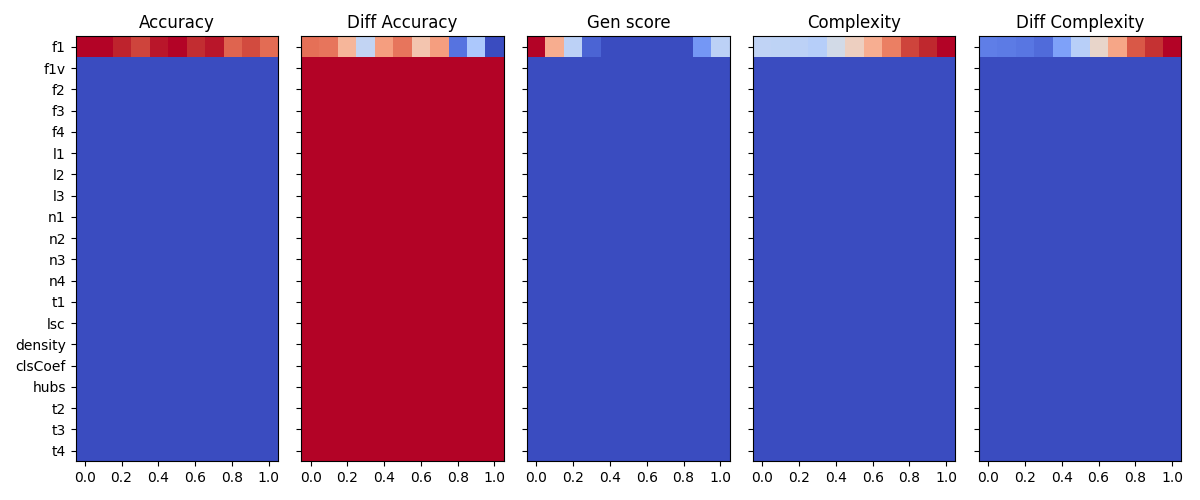
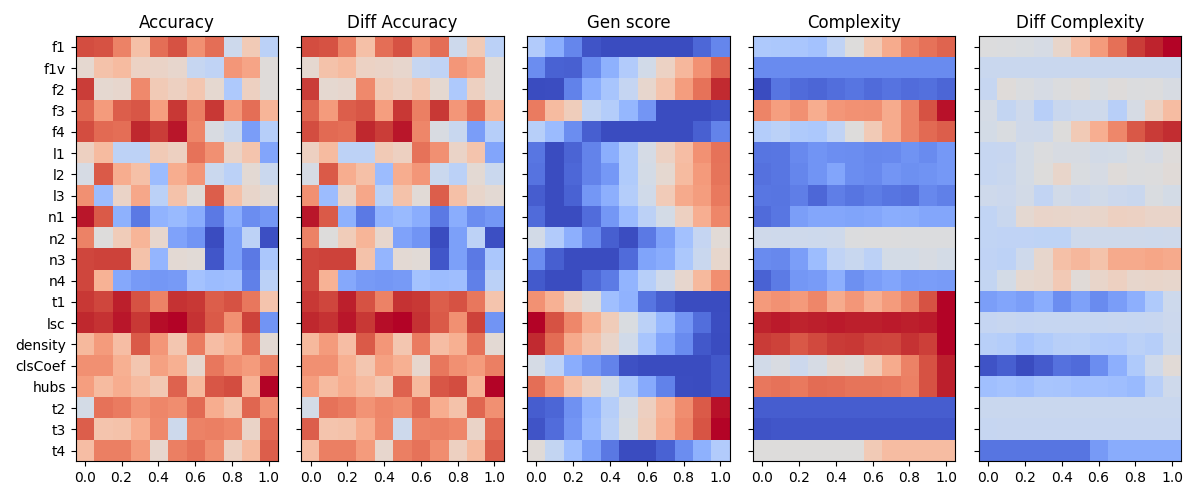
e infividual  for 1 dataset + measure and range selection

diff --git a/e_mir_individual.py b/e_mir_individual.py
@@ -1,0 +1,60 @@
+import os
+
+default_n_threads = 1
+os.environ['OPENBLAS_NUM_THREADS'] = f"{default_n_threads}"
+os.environ['MKL_NUM_THREADS'] = f"{default_n_threads}"
+os.environ['OMP_NUM_THREADS'] = f"{default_n_threads}"
+
+import numpy as np
+from sklearn.datasets import make_classification, load_breast_cancer
+from problexity.classification import f1, f1v, f2, f3, f4, l1, l2, l3, n1, n2, n3, n4, t1, lsc, \
+    density, clsCoef, hubs, t2, t3, t4, c1, c2
+from sklearn.model_selection import cross_val_score
+from Generate import GenComplexity
+from sklearn.naive_bayes import GaussianNB
+
+np.random.seed(188)
+
+reps = 10
+random_states = np.random.randint(100,10000,reps)
+
+complexity_funs = [f1, f1v, f2, f3, f4, l1, l2, l3, n1, n2, n3, n4, t1, lsc, density, clsCoef, hubs, t2, t3, t4]
+target_X, target_y = load_breast_cancer(return_X_y=True)
+
+results = np.zeros((reps, len(complexity_funs), 5)) # clf, 
+                                                    # clf diff from source, 
+                                                    # score, 
+                                                    # complexity,
+                                                    # complexity diff from source
+
+for rep_id, rs in enumerate(random_states):
+    X_source, y_source = make_classification(n_samples=500, random_state=rs)
+
+    for fun_id, fun in enumerate(complexity_funs):
+        print('Measure: %s' % fun.__name__)
+        c_source = fun(X_source, y_source)
+        target = fun(target_X, target_y)
+
+        gen = GenComplexity(X_source, y_source, [target], [fun])
+        gen.generate(iters=300, pop_size=100, 
+                     cross_ratio=0.25, mut_ratio=0.1,
+                     decay=0.005)
+
+        X, y = gen.return_best(0)
+        
+        clf = GaussianNB()
+        s1 = cross_val_score(clf, X_source, y_source, cv=10)
+        s2 = cross_val_score(clf, X, y, cv=10)
+
+        results[rep_id, fun_id, 0] = np.mean(s2)
+        results[rep_id, fun_id, 1] = np.mean(s2) - np.mean(s1)
+        
+        results[rep_id, fun_id, 2] = gen.pop_scores[0,0]
+                    
+        c = fun(X,y)
+        results[rep_id, fun_id, 3] = c
+        results[rep_id, fun_id, 4] = c - c_source
+
+
+    print(results[rep_id, fun_id])
+    np.save('res/e_mir_individual.npy', results)

diff --git a/e_individual_vis2.py b/e_individual_vis2.py
@@ -1,0 +1,58 @@
+import numpy as np
+from problexity.classification import f1, f1v, f2, f3, f4, l1, l2, l3, n1, n2, n3, n4, t1, lsc, \
+    density, clsCoef, hubs, t2, t3, t4, c1, c2
+import matplotlib.pyplot as plt
+
+results = np.load('res/e_individual.npy')
+print(results.shape) # 10 x 20 x 11 x 5
+
+# clf, 
+# clf diff from source, 
+# score, 
+# complexity,
+# complexity diff from source
+
+res_labels = ['Accuracy', 'Diff Accuracy', 'Gen score', 'Complexity', 'Diff Complexity']
+
+complexity_funs = [f1, f1v, f2, f3, f4, l1, l2, l3, n1, n2, n3, n4, t1, lsc, density, clsCoef, hubs, t2, t3, t4]
+complexity_funs = [c.__name__ for c in complexity_funs]
+targets = np.linspace(0, 1, 11)
+
+
+# mean_res = np.mean(results, axis=0) # 20 x 11 x 5
+mean_res = results[0]
+achieved_complexities = mean_res[:,:,3]
+diff_complexities = mean_res[:,:,4]
+
+
+fig, ax = plt.subplots(1,1,figsize=(12,3), sharex=True)
+
+violin_parts = ax.violinplot(achieved_complexities.T)
+ax.set_xticks(np.arange(len(complexity_funs))+1, complexity_funs)
+ax.grid(ls=':')
+
+mask = [1,0,0,1,1,0,1,0,1,0,1,1,1,0,0,1,1,0,0,1]
+
+for p_id, pc in enumerate(violin_parts['bodies']):
+    pc.set_color(['b','r'][mask[p_id]])
+
+violin_parts['cbars'].set_colors(np.array(['b','r'])[mask])
+violin_parts['cmins'].set_colors(np.array(['b','r'])[mask])
+violin_parts['cmaxes'].set_colors(np.array(['b','r'])[mask])
+    
+plt.tight_layout()
+plt.savefig('foo.png')
+
+ranges = [
+    [0.3, 0.9], #f1
+    [0.6, 1.0], #f3
+    [0.3, 0.9], #f4
+    [0.05, 0.3], #l2
+    [0.05, 0.3], #n1
+    [0.1, 0.6], #n3
+    [0.1, 0.4], #n4
+    [0.6, 1.0], #t1
+    [0.4, 1.0], #clscoef
+    [0.9, 1.0], #hubs
+    [0.4, 0.6]  #t4
+]

diff --git a/e_individual.py b/e_individual.py
@@ -1,3 +1,10 @@
+import os
+
+default_n_threads = 1
+os.environ['OPENBLAS_NUM_THREADS'] = f"{default_n_threads}"
+os.environ['MKL_NUM_THREADS'] = f"{default_n_threads}"
+os.environ['OMP_NUM_THREADS'] = f"{default_n_threads}"
+
 import numpy as np
 from sklearn.datasets import make_classification
 from problexity.classification import f1, f1v, f2, f3, f4, l1, l2, l3, n1, n2, n3, n4, t1, lsc, \
@@ -5,14 +12,16 @@ from problexity.classification import f1, f1v, f2, f3, f4, l1, l2, l3, n1, n2, n
 from sklearn.model_selection import cross_val_score
 from Generate import GenComplexity
 from sklearn.naive_bayes import GaussianNB
-
 np.random.seed(188)
+
 
 reps = 10
 random_states = np.random.randint(100,10000,reps)
 
 complexity_funs = [f1, f1v, f2, f3, f4, l1, l2, l3, n1, n2, n3, n4, t1, lsc, density, clsCoef, hubs, t2, t3, t4]
 targets = np.linspace(0, 1, 11)
+
+prev_res = np.load('res/e_individual.npy')
 
 results = np.zeros((reps, len(complexity_funs), len(targets), 5)) # clf, 
                                                                   # clf diff from source, 
@@ -26,6 +35,10 @@ for rep_id, rs in enumerate(random_states):
     for fun_id, fun in enumerate(complexity_funs):
         print('Measure: %s' % fun.__name__)
         c_source = fun(X_source, y_source)
+        
+        if np.sum(prev_res[rep_id, fun_id]==0)<55:
+            results[rep_id, fun_id] = prev_res[rep_id, fun_id]
+            continue
 
         for target_id, target in enumerate(targets):
             gen = GenComplexity(X_source, y_source, [target], [fun])

diff --git a/e_mir_individual_vis.py b/e_mir_individual_vis.py
@@ -3,9 +3,10 @@ from problexity.classification import f1, f1v, f2, f3, f4, l1, l2, l3, n1, n2, n
     density, clsCoef, hubs, t2, t3, t4, c1, c2
 import matplotlib.pyplot as plt
 
-results = np.load('res/e_individual.npy')
+results = np.load('res/e_mir_individual.npy')
 print(results.shape) # 10 x 20 x 11 x 5
 
+exit()
 # clf, 
 # clf diff from source, 
 # score, 
@@ -18,11 +19,7 @@ complexity_funs = [f1, f1v, f2, f3, f4, l1, l2, l3, n1, n2, n3, n4, t1, lsc, den
 complexity_funs = [c.__name__ for c in complexity_funs]
 targets = np.linspace(0, 1, 11)
 
-# mean_res = np.mean(results, axis=0) # 20 x 11 x 5
-mean_res = results[0]
-
-print(np.min(mean_res[:,:,1]))
-print(np.max(mean_res[:,:,1]))
+mean_res = np.mean(results, axis=0) # 20 x 11 x 5
 
 fig, ax = plt.subplots(1,5,figsize=(12,5), sharex=True, sharey=True)
 
@@ -34,12 +31,4 @@ for i in range(5):
 ax[0].set_yticks(np.arange(len(complexity_funs)), complexity_funs)
     
 plt.tight_layout()
-plt.savefig('foo3.png')
-
-# Note:
-# Na podstawie tego eksperymentu można wybrać te miary 
-# które faktycznie są łatwo modyfikowalne 
-# i na nich skupić się w eksperymencie multiobjective. 
-# Tam można zobaczyć, czy skoro pojedyncze są łatwo modyfikowalne 
-# to tak samo bedzie jak się je weźmie pod uwagę razem.
-
+plt.savefig('foo4.png')
